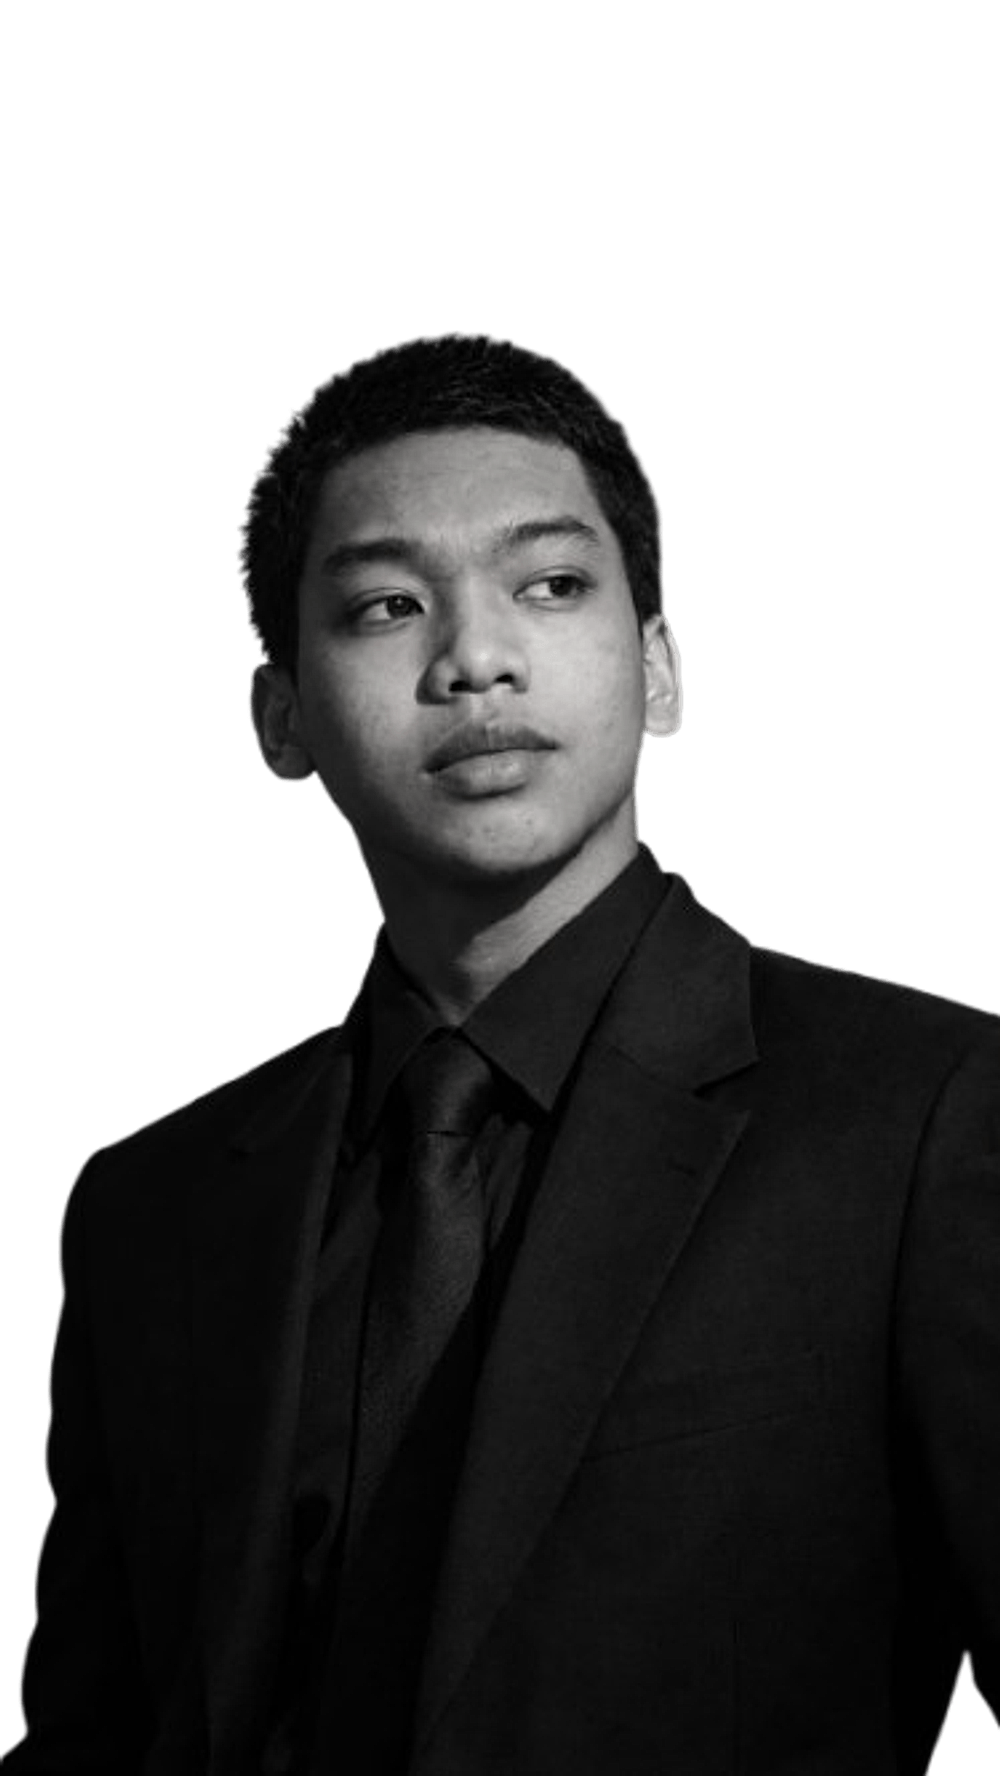
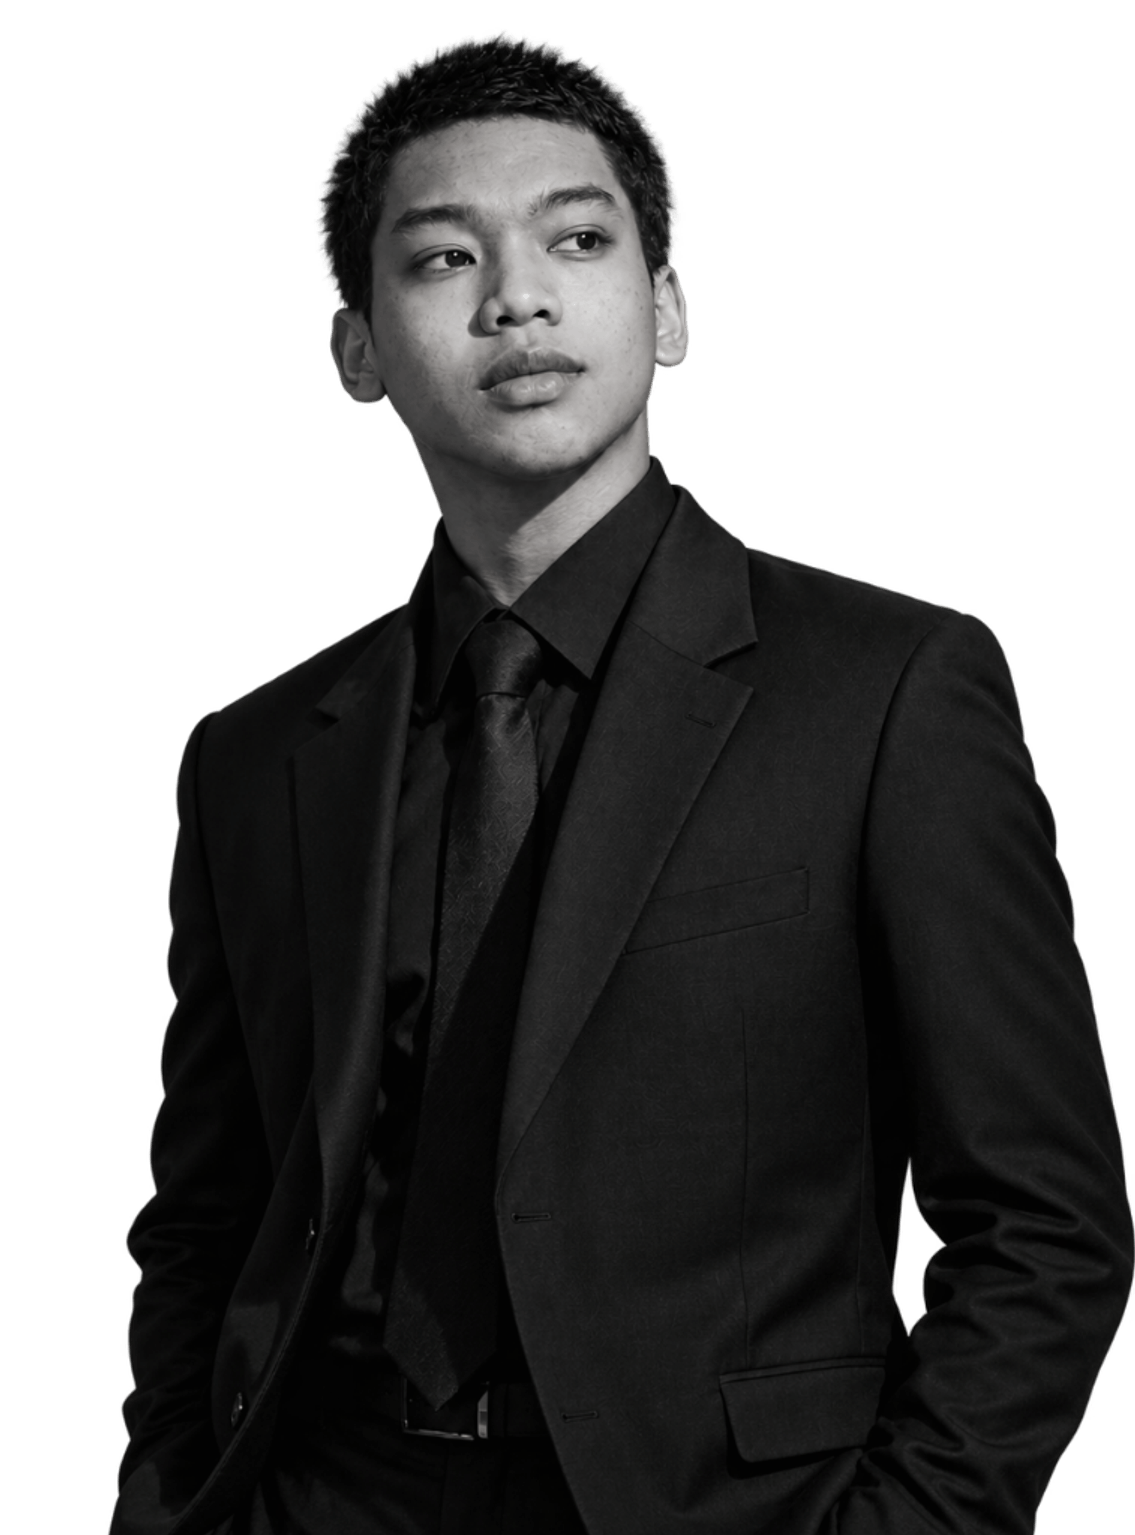
update hero

diff --git a/src/components/About.tsx b/src/components/About.tsx
@@ -65,7 +65,7 @@ export function About() {
                 fill
                 unoptimized
                 sizes="112px"
-                className="object-cover object-[50%_15%] scale-135"
+                className="object-cover object-[48%_12%] scale-130"
                 priority
               />
             </div>
